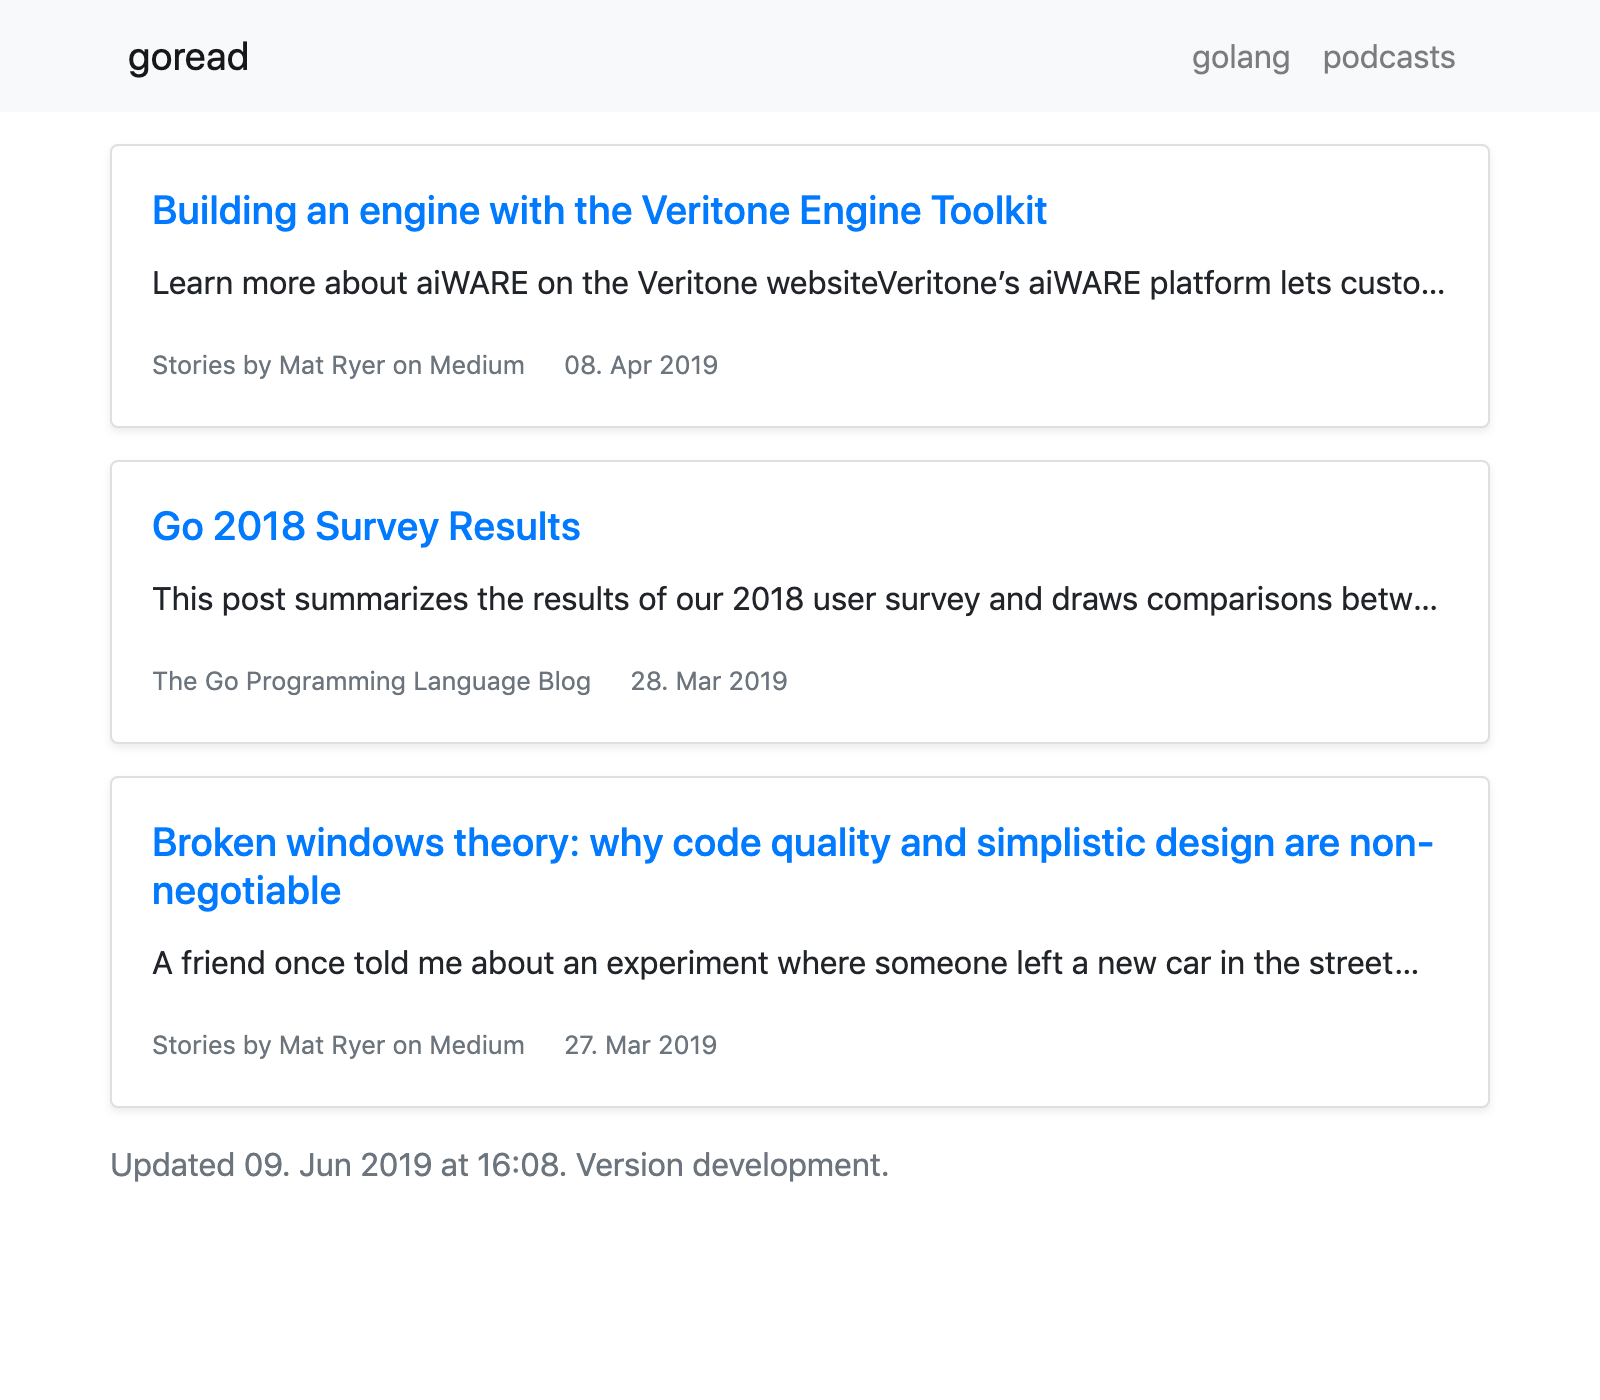
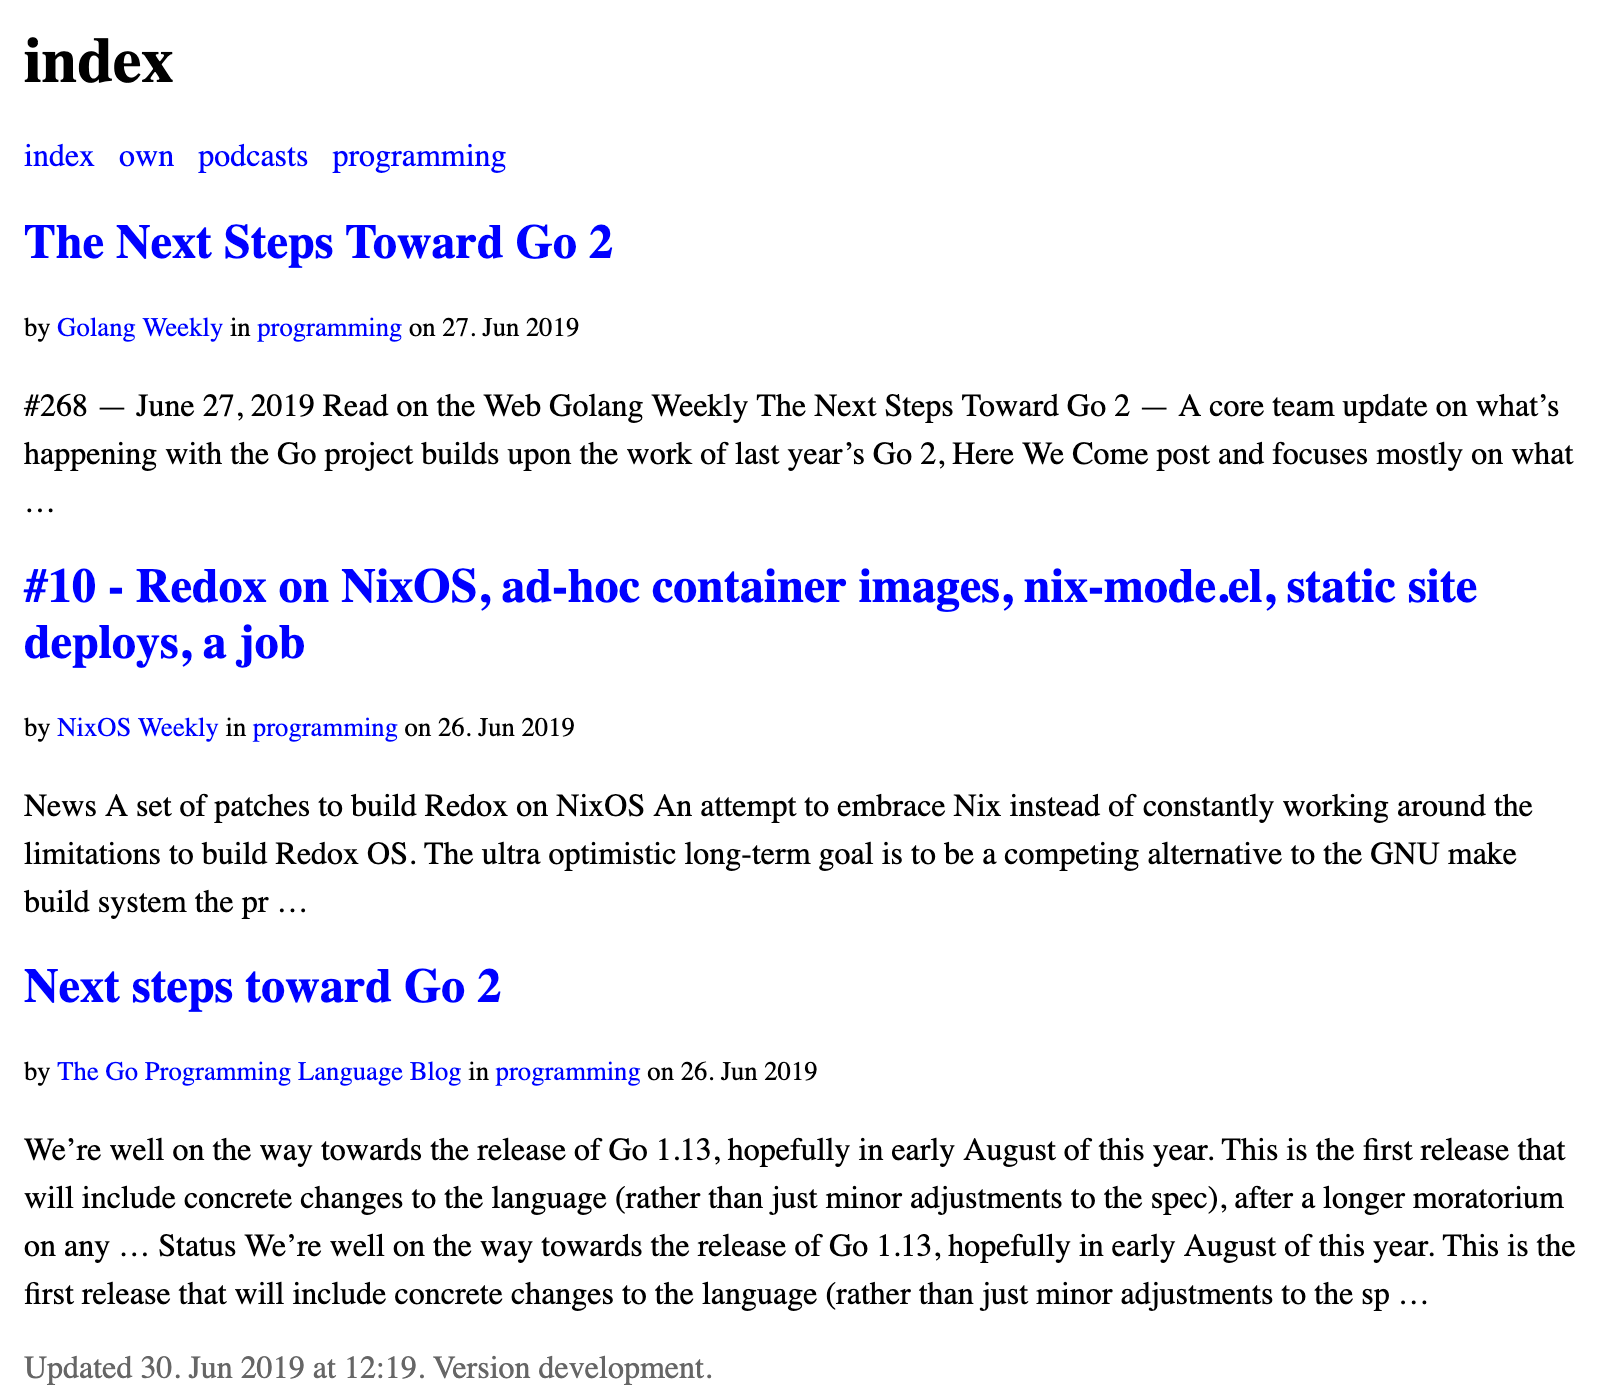
Template: Replace the default template

diff --git a/template.html b/template.html
@@ -4,58 +4,99 @@
 <head>
 	<meta charset="utf-8">
 	<meta name="robots" content="noindex">
-	<meta name="viewport" content="width=device-width, initial-scale=1, shrink-to-fit=no">
+	<meta name="viewport" content="width=device-width, initial-scale=1">
 
-	<link rel="stylesheet" href="https://stackpath.bootstrapcdn.com/bootstrap/4.3.1/css/bootstrap.min.css">
+	<title>{{.Category | sanitize}}</title>
 
-	<title>{{.Category}} - goread</title>
+	<style type="text/css">
+		body {
+			margin: 0 auto;
+			max-width: 1024px;
+			padding: .5rem;
+			font-weight: lighter;
+		}
+
+		a {
+			color: blue;
+			text-decoration: none;
+		}
+
+		a:hover {
+			color: darkblue;
+			text-decoration: underline;
+		}
+
+		ul {
+			padding: 0;
+		}
+
+		ul li {
+			display: inline;
+			list-style: none;
+		}
+
+		article {
+			margin-bottom: .5rem;
+		}
+
+		article>h2 {
+			margin: 0;
+		}
+
+		footer,
+		article>small {
+			color: #666;
+		}
+
+		article>p {
+			line-height: 1.5;
+			word-break: break-word;
+		}
+
+		h1,
+		ul li,
+		article>h2,
+		article>small,
+		article>p,
+		footer {
+			margin: 0;
+			margin-bottom: .5rem;
+			padding: .25rem;
+		}
+	</style>
 </head>
 
 <body>
-	<nav class="navbar navbar-expand navbar-light bg-light">
-		<div class="container px-4">
-			<a class="navbar-brand" href="index.html">goread</a>
-			<ul class="navbar-nav">
-				{{range .Categories}}
-				<li class="nav-item">
-					<a class="nav-link" href="{{.}}.html">{{.}}</a>
-				</li>
-				{{end}}
-			</ul>
-		</div>
-	</nav>
+	<h1>{{.Category | sanitize }}</h1>
 
-	<div class="container">
-		{{range.Items}}
-		<div class="card shadow-sm mt-3">
-			<div class="card-body">
-				<h5 class="card-title">
-					<a href="{{.Link}}" target="_blank">
-						{{.Title | sanitize | trim}}
-					</a>
-				</h5>
-				<p class="card-text text-truncate">
-					{{.Description | sanitize | trim | truncate}}
-					{{.Content | sanitize | trim | truncate}}
-				</p>
-				<p class="card-text">
-					<small class="mr-3">
-						<a href="{{.Feed.Link}}" class="text-muted">{{.Feed.Title | sanitize | trim}}</a>
-					</small>
-					<small class="mr-3 text-muted">
-						{{.Time.Format "02. Jan 2006"}}
-					</small>
-				</p>
-			</div>
-		</div>
+	<ul>
+		{{range .Categories}}
+		<li><a href="{{.}}.html">{{.}}</a></li>
 		{{end}}
+	</ul>
 
-		<footer class="my-3">
-			<p class="text-muted">
-				Updated {{.Updated.Format "02. Jan 2006 at 15:04"}}. Version {{.Version}}.
-			</p>
-		</footer>
-	</div>
+	{{range .Items}}
+	<article>
+		<h2>
+			<a href="{{.Link}}" target="_blank">{{.Title | sanitize | trim}}</a>
+		</h2>
+		<p>
+			<small>
+				by <a href="{{.Feed.Link | hash}}.html">{{.Feed.Title | sanitize | trim}}</a>
+				in <a href="{{.Category}}.html">{{.Category}}</a>
+				on {{.Time.Format "02. Jan 2006"}}
+			</small>
+		</p>
+		<p>
+			{{.Description | sanitize | trim | truncate}}
+			{{.Content | sanitize | trim | truncate}}
+		</p>
+	</article>
+	{{end}}
+
+	<footer>
+		Updated {{time.Format "02. Jan 2006 at 15:04"}}. Version {{.Version}}.
+	</footer>
 </body>
 
 </html>

diff --git a/template.go b/template.go
@@ -1,6 +1,6 @@
 // Code generated by go generate; DO NOT EDIT.
 // This file was generated by robots at
-// 2019-06-30 12:18:08.980075 +0200 CEST m=+0.000779103
+// 2019-06-30 12:20:06.254777 +0200 CEST m=+0.000644196
 package main
 
 var feedTmpl = `<!DOCTYPE html>
@@ -9,58 +9,99 @@ var feedTmpl = `<!DOCTYPE html>
 <head>
 	<meta charset="utf-8">
 	<meta name="robots" content="noindex">
-	<meta name="viewport" content="width=device-width, initial-scale=1, shrink-to-fit=no">
+	<meta name="viewport" content="width=device-width, initial-scale=1">
 
-	<link rel="stylesheet" href="https://stackpath.bootstrapcdn.com/bootstrap/4.3.1/css/bootstrap.min.css">
+	<title>{{.Category | sanitize}}</title>
 
-	<title>{{.Category}} - goread</title>
+	<style type="text/css">
+		body {
+			margin: 0 auto;
+			max-width: 1024px;
+			padding: .5rem;
+			font-weight: lighter;
+		}
+
+		a {
+			color: blue;
+			text-decoration: none;
+		}
+
+		a:hover {
+			color: darkblue;
+			text-decoration: underline;
+		}
+
+		ul {
+			padding: 0;
+		}
+
+		ul li {
+			display: inline;
+			list-style: none;
+		}
+
+		article {
+			margin-bottom: .5rem;
+		}
+
+		article>h2 {
+			margin: 0;
+		}
+
+		footer,
+		article>small {
+			color: #666;
+		}
+
+		article>p {
+			line-height: 1.5;
+			word-break: break-word;
+		}
+
+		h1,
+		ul li,
+		article>h2,
+		article>small,
+		article>p,
+		footer {
+			margin: 0;
+			margin-bottom: .5rem;
+			padding: .25rem;
+		}
+	</style>
 </head>
 
 <body>
-	<nav class="navbar navbar-expand navbar-light bg-light">
-		<div class="container px-4">
-			<a class="navbar-brand" href="index.html">goread</a>
-			<ul class="navbar-nav">
-				{{range .Categories}}
-				<li class="nav-item">
-					<a class="nav-link" href="{{.}}.html">{{.}}</a>
-				</li>
-				{{end}}
-			</ul>
-		</div>
-	</nav>
+	<h1>{{.Category | sanitize }}</h1>
 
-	<div class="container">
-		{{range.Items}}
-		<div class="card shadow-sm mt-3">
-			<div class="card-body">
-				<h5 class="card-title">
-					<a href="{{.Link}}" target="_blank">
-						{{.Title | sanitize | trim}}
-					</a>
-				</h5>
-				<p class="card-text text-truncate">
-					{{.Description | sanitize | trim | truncate}}
-					{{.Content | sanitize | trim | truncate}}
-				</p>
-				<p class="card-text">
-					<small class="mr-3">
-						<a href="{{.Feed.Link}}" class="text-muted">{{.Feed.Title | sanitize | trim}}</a>
-					</small>
-					<small class="mr-3 text-muted">
-						{{.Time.Format "02. Jan 2006"}}
-					</small>
-				</p>
-			</div>
-		</div>
+	<ul>
+		{{range .Categories}}
+		<li><a href="{{.}}.html">{{.}}</a></li>
 		{{end}}
+	</ul>
 
-		<footer class="my-3">
-			<p class="text-muted">
-				Updated {{.Updated.Format "02. Jan 2006 at 15:04"}}. Version {{.Version}}.
-			</p>
-		</footer>
-	</div>
+	{{range .Items}}
+	<article>
+		<h2>
+			<a href="{{.Link}}" target="_blank">{{.Title | sanitize | trim}}</a>
+		</h2>
+		<p>
+			<small>
+				by <a href="{{.Feed.Link | hash}}.html">{{.Feed.Title | sanitize | trim}}</a>
+				in <a href="{{.Category}}.html">{{.Category}}</a>
+				on {{.Time.Format "02. Jan 2006"}}
+			</small>
+		</p>
+		<p>
+			{{.Description | sanitize | trim | truncate}}
+			{{.Content | sanitize | trim | truncate}}
+		</p>
+	</article>
+	{{end}}
+
+	<footer>
+		Updated {{time.Format "02. Jan 2006 at 15:04"}}. Version {{.Version}}.
+	</footer>
 </body>
 
 </html>`

diff --git a/README.md b/README.md
@@ -36,12 +36,12 @@ $
 
 ## Use a custom template
 
-The `-template` flag can be used to replace the defaut template. This repository
-contains an additional one, [plain.html](/plain.html), which does not use any
-external styling.
+The `-template` flag can be used to replace the defaut template. The
+[default template](/template.html) can be used as an starting point for a custom
+one.
 
 ```bash
-$ goread -template plain.html
+$ goread -template template.html
 $
 ```
 
